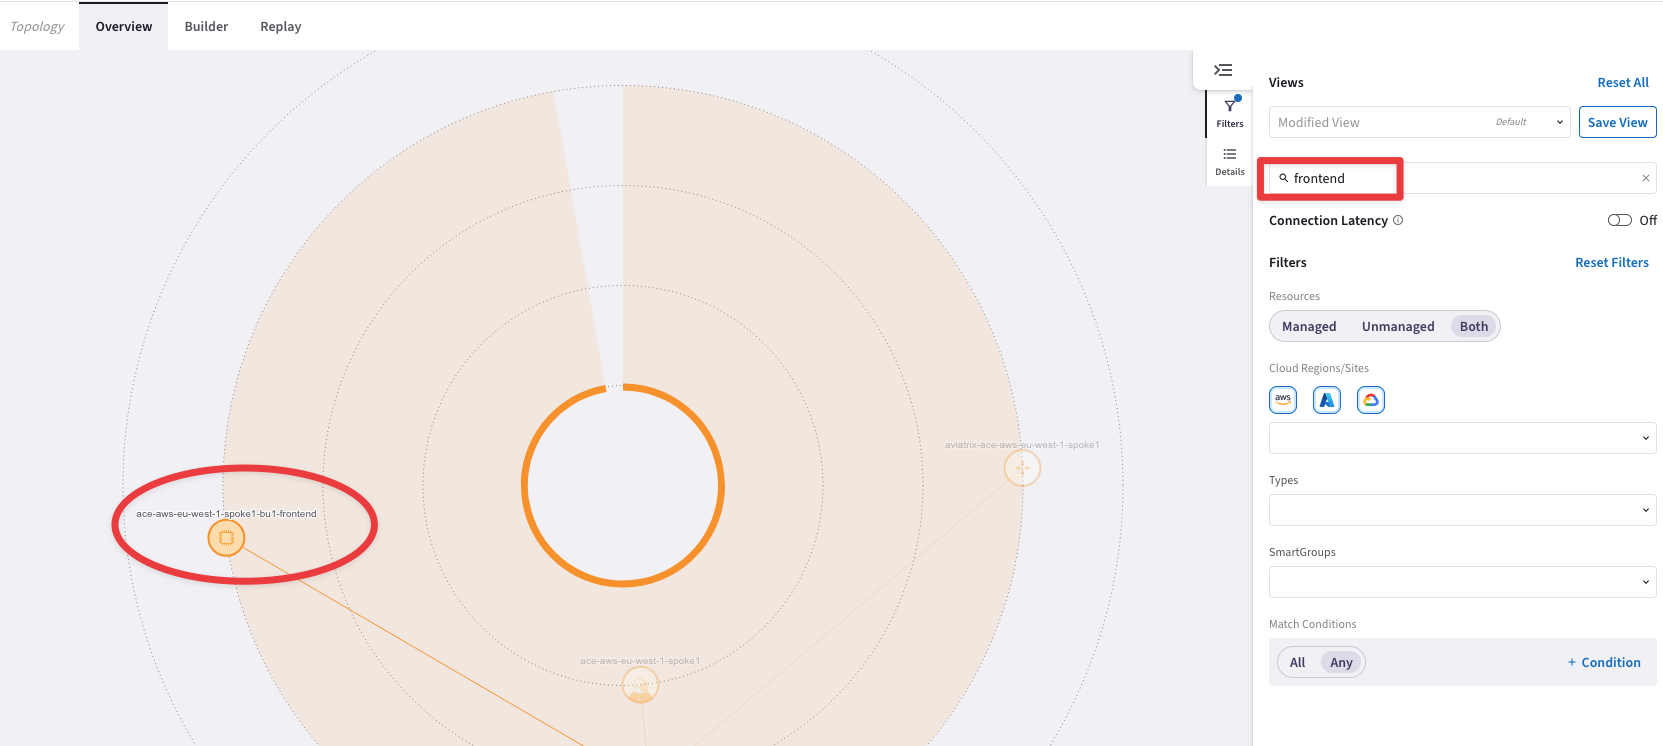
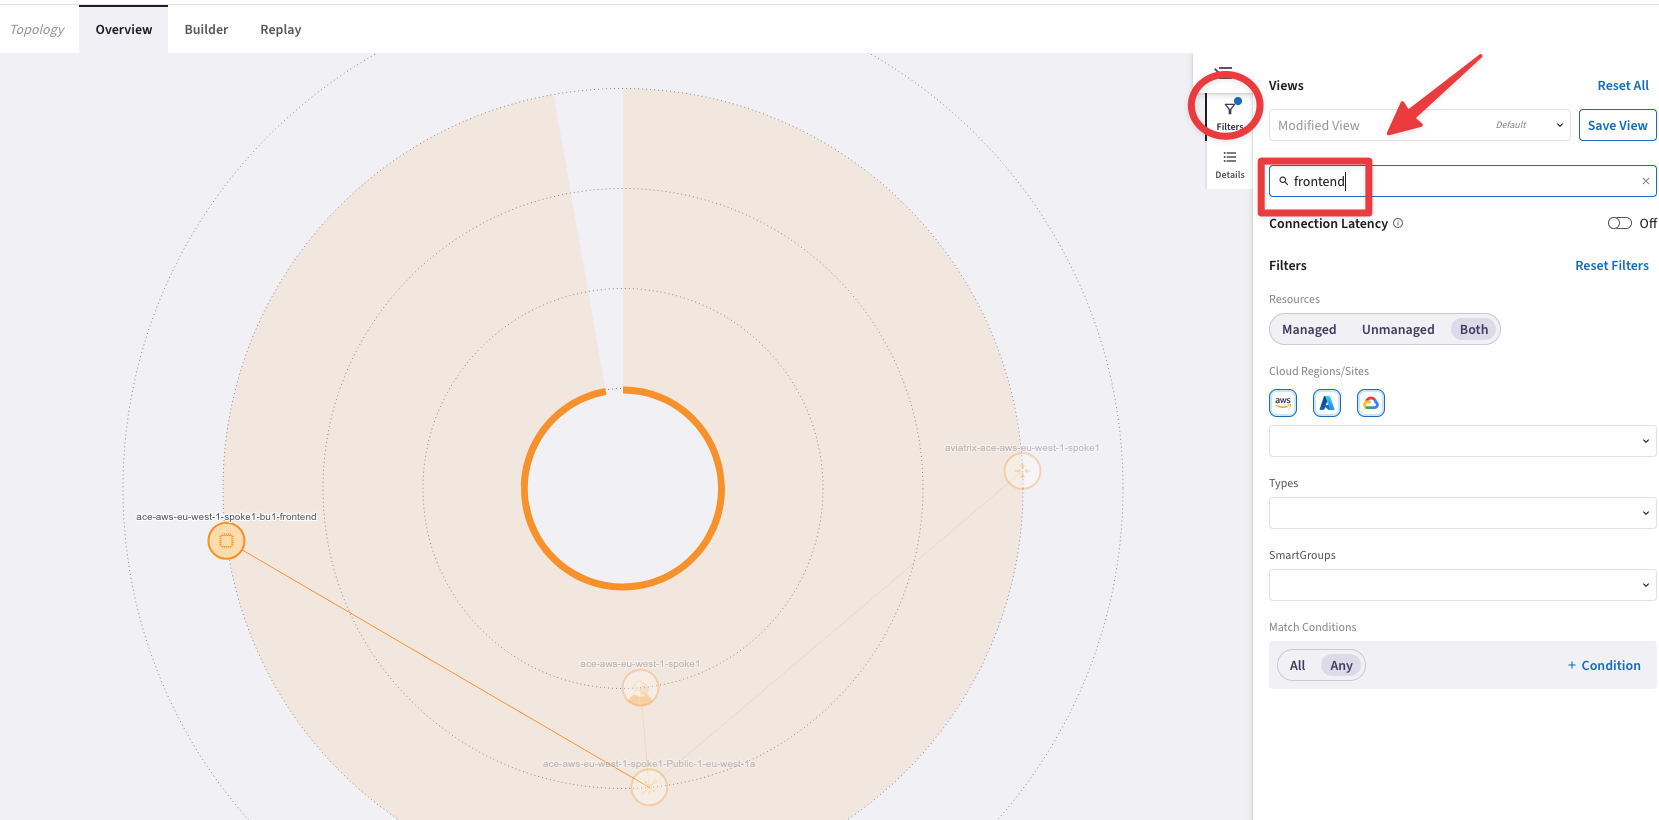
UPDATE FOR OPS

diff --git a/ace_ops/docs/lab1.md b/ace_ops/docs/lab1.md
@@ -232,11 +232,11 @@ align: center
 SSH credentials
 ```
 
-Let's use the Dynamic Topology for retrieving the Public IP address of the BU1 Frontend instance. Navigate to **CoPilot > Cloud Fabric > Topology > Overview (default tab)** and search for `"frontend"`.
+Let's use the Dynamic Topology for retrieving the Public IP address of the BU1 Frontend instance. Navigate to **CoPilot > Cloud Fabric > Topology > Overview (default tab)**, then click on **Filters** and search for `"frontend"`.
 
 ```{figure} images/lab1-assets20.png
 ---
-height: 200px
+height: 400px
 align: center
 ---
 BU1 frontend
@@ -246,7 +246,7 @@ Now, click on the EC2 instance icon in the topology and locate the Public IP add
 
 ```{figure} images/lab1-assets21.png
 ---
-height: 200px
+height: 400px
 align: center
 ---
 Properties
@@ -256,7 +256,7 @@ Open your SSH client and enter the SSH command to log in to the BU1 Frontend ins
 
 ```{figure} images/lab1-assets22.png
 ---
-height: 200px
+height: 400px
 align: center
 ---
 SSH
@@ -300,7 +300,15 @@ The screenshots are used as examples and might indicate **different IP addresses
 height: 400px
 align: center
 ---
-BU1 to BU2 fails
+BU1 to BU2: ICMP test fails
+```
+
+```{figure} images/lab1-sshfails01.png
+---
+height: 400px
+align: center
+---
+BU1 to BU2: SSH test fails
 ```
 
 * Check the **Network Segmentation** section on the CoPilot, and then look at the **Logical View**.
